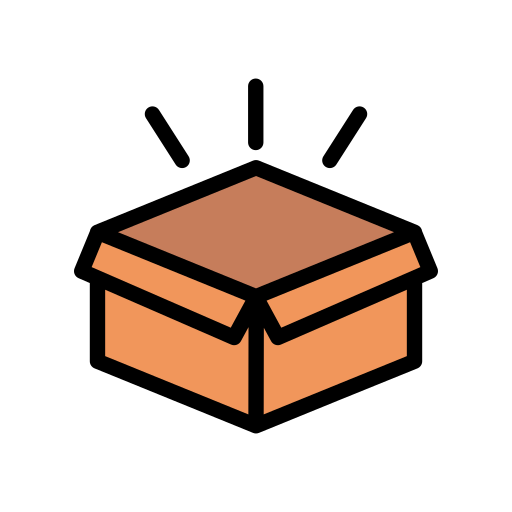
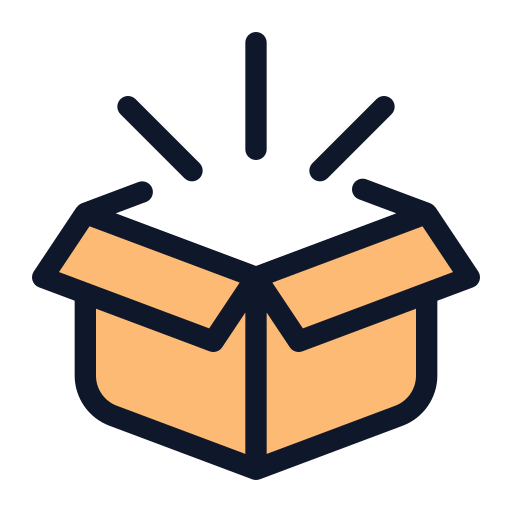
Updates

diff --git a/index.html b/index.html
@@ -5,8 +5,8 @@
     <link rel="icon" type="image/svg+xml" href="/fe-drained-md/icons/other/card-games.png" />
     <meta name="viewport" content="width=device-width, initial-scale=1.0" />
     <title>fe-drained-md</title>
-    <script type="module" crossorigin src="/fe-drained-md/assets/index-DYQ9ZAzI.js"></script>
-    <link rel="stylesheet" crossorigin href="/fe-drained-md/assets/index-CUEAdyhx.css">
+    <script type="module" crossorigin src="/fe-drained-md/assets/index-DaXpuWkX.js"></script>
+    <link rel="stylesheet" crossorigin href="/fe-drained-md/assets/index-5alPoVF4.css">
   </head>
   <body>
     <div id="root"></div>